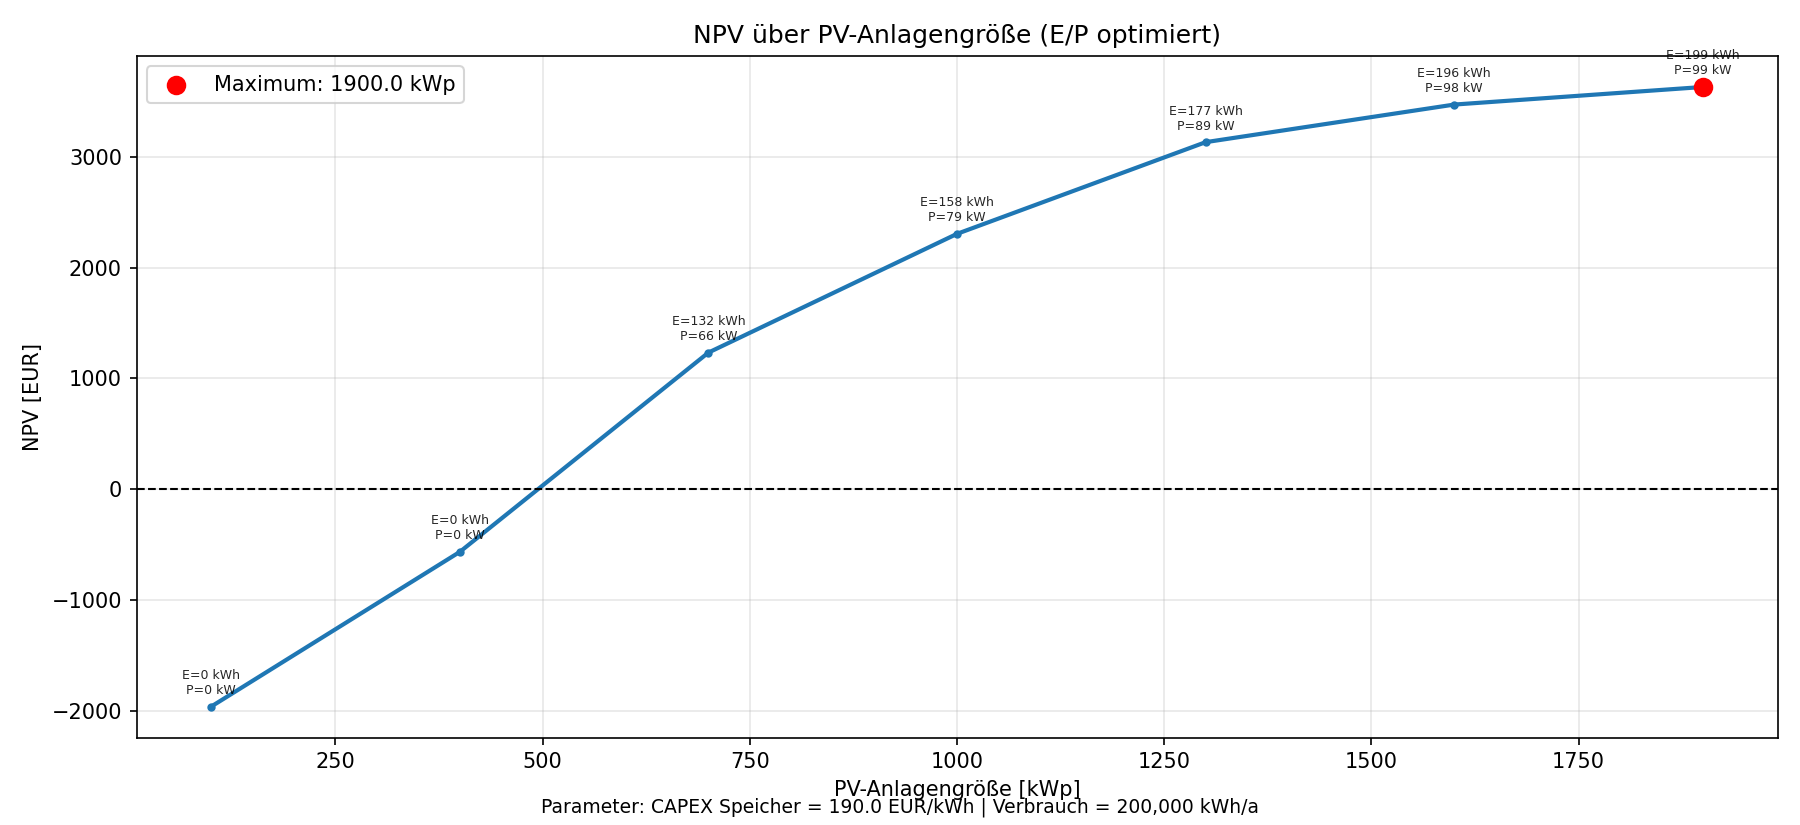
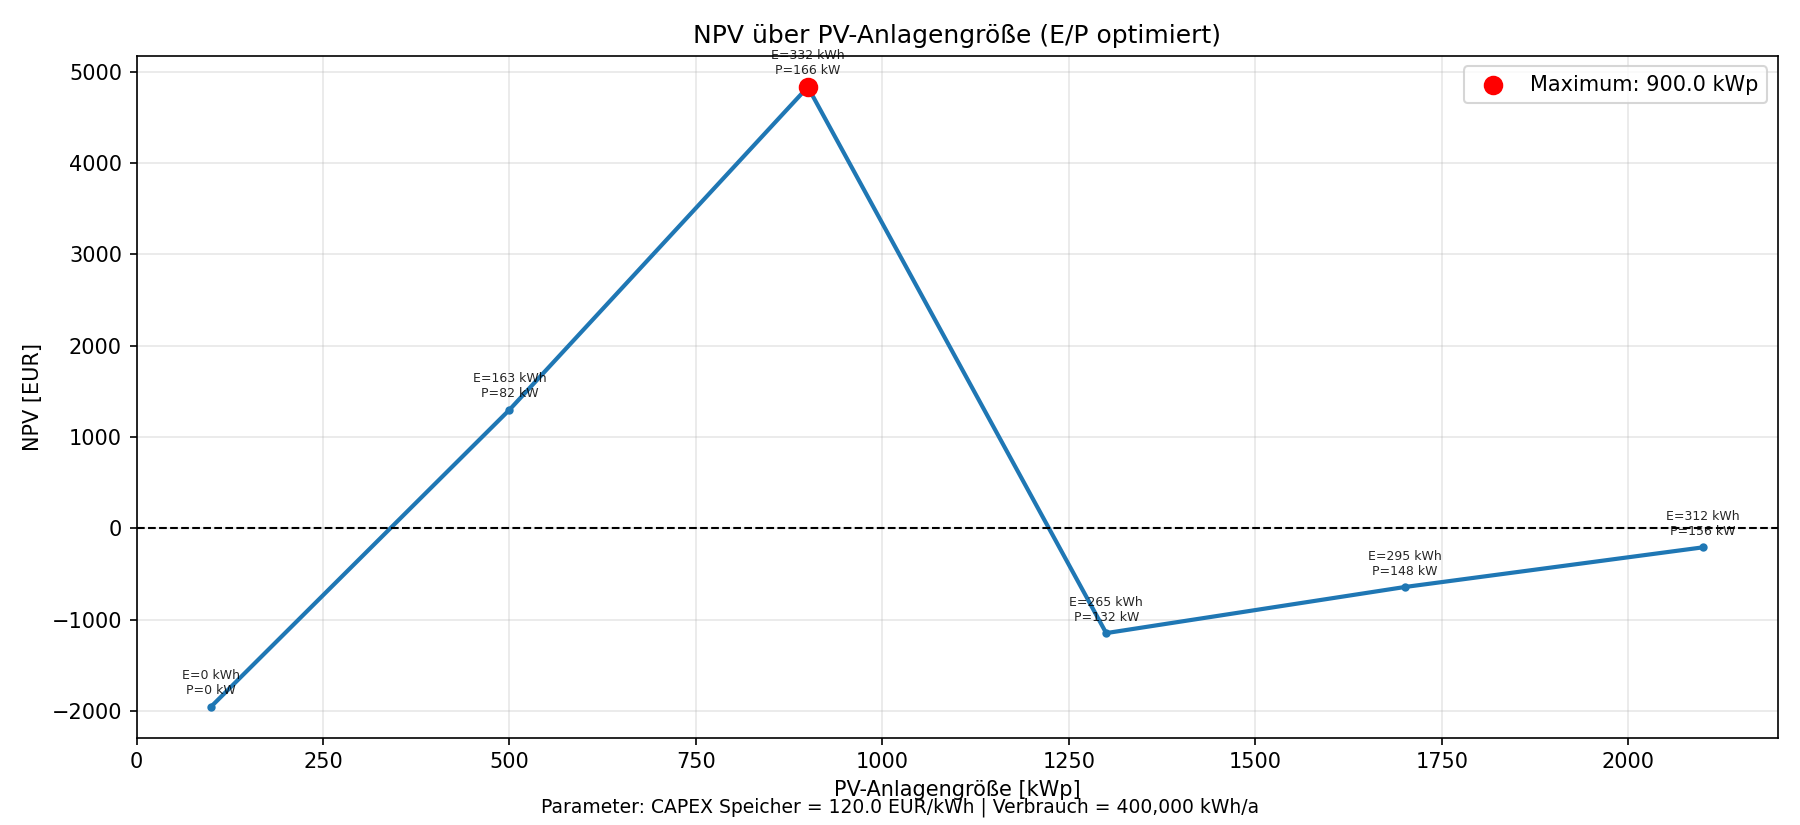
refactor: Update file paths in scripts and improve input handling in Storage_Test.py and Storage_Test_NPV.py

diff --git a/Storage_Test.py b/Storage_Test.py
@@ -109,19 +109,24 @@ def load_pv_per_kwp_hourly(
 
 
 def load_timeseries(inp: "Inputs") -> tuple[np.ndarray, np.ndarray, np.ndarray]:
-    df_price = pd.read_csv(inp.path_prices, sep=";", decimal=",")
+    base_dir = Path(__file__).resolve().parent
+    path_prices = inp.path_prices if inp.path_prices.exists() else base_dir / inp.path_prices.name
+    path_pv = inp.path_pv if inp.path_pv.exists() else base_dir / inp.path_pv.name
+    path_bdew = inp.path_bdew_g0 if inp.path_bdew_g0.exists() else base_dir / inp.path_bdew_g0.name
+
+    df_price = pd.read_csv(path_prices, sep=";", decimal=",")
     prices_hour = pd.to_numeric(df_price["price"], errors="coerce").fillna(0.0).values
     if inp.price_in_ct_per_kwh:
         prices_hour = prices_hour / 100.0
 
     pv_per_kwp_hour = load_pv_per_kwp_hourly(
-        inp.path_pv,
+        path_pv,
         len(prices_hour),
         inp.pv_reference_kwp,
         inp.pv_specific_yield_kwh_per_kwp_per_year,
     )
     load_hour = load_bdew_g0_profile_15min(
-        inp.path_bdew_g0,
+        path_bdew,
         len(prices_hour),
         inp.annual_consumption_kwh,
         inp.g0_reference_annual_kwh,
@@ -180,9 +185,10 @@ def opportunity_price_eur_per_kwh(prices: np.ndarray, pv_size_kwp: float) -> np.
 # =============================================================
 @dataclass
 class Inputs:
-    path_prices: Path = Path(r"C:\Users\TimFletschinger\OneDrive - empact GmbH\Desktop\04 Simulation\Spotmarktpreis.csv")
-    path_pv: Path = Path(r"C:\Users\TimFletschinger\OneDrive - empact GmbH\Desktop\04 Simulation\PV-Daten_400kwp_stuendlich.csv")
-    path_bdew_g0: Path = Path(r"C:\Users\TimFletschinger\OneDrive - empact GmbH\Desktop\04 Simulation\G0Verbrauch_400.000kwh_stuendlich.csv")
+    _BASE_DIR: Path = Path(__file__).resolve().parent
+    path_prices: Path = _BASE_DIR / "Data" / "Spotmarktpreis.csv"
+    path_pv: Path = _BASE_DIR / "Data" / "PV-Daten_400kwp_stuendlich.csv"
+    path_bdew_g0: Path = _BASE_DIR / "Data" / "G0Verbrauch_400.000kwh_stuendlich.csv"
 
     # PV-Größe in kWp eingeben
     pv_size_kwp: float = 400
@@ -227,8 +233,8 @@ class Inputs:
     cbc_time_limit_sec: int = 300
     cbc_mip_gap: float = 0.01
     cbc_threads: int = 0
-    export_dir: Path = Path(r"C:\Users\TimFletschinger\OneDrive - empact GmbH\Desktop\04 Simulation\exports")
-    template_word_path: Path | None = Path(r"C:\Users\TimFletschinger\OneDrive - empact GmbH\Desktop\04 Simulation\PDF\VORLAGE_Ausführungsbeschreibung_PVA_Kunde1.docx")
+    export_dir: Path = _BASE_DIR / "exports"
+    template_word_path: Path | None = _BASE_DIR / "PDF" / "VORLAGE_Ausführungsbeschreibung_PVA_Kunde1.docx"
     plot_start_date: str = "2024-07-01"
     plot_n_days: int = 14
 

diff --git a/Storage_Test_NPV.py b/Storage_Test_NPV.py
@@ -34,7 +34,7 @@ class InputsNPV(BaseInputs):
     # Diskontsatz (Hurdle Rate), z. B. 6%
     discount_rate: float = 0.06
     # Baukosten Speicher (CAPEX) explizit im NPV-Tool setzbar
-    capex_batt_E_eur_per_kwh: float = 180.0
+    capex_batt_E_eur_per_kwh: float = 120.0
     # Standardverbrauch für dieses NPV-Tool
     annual_consumption_kwh: float = 400000.0
 
